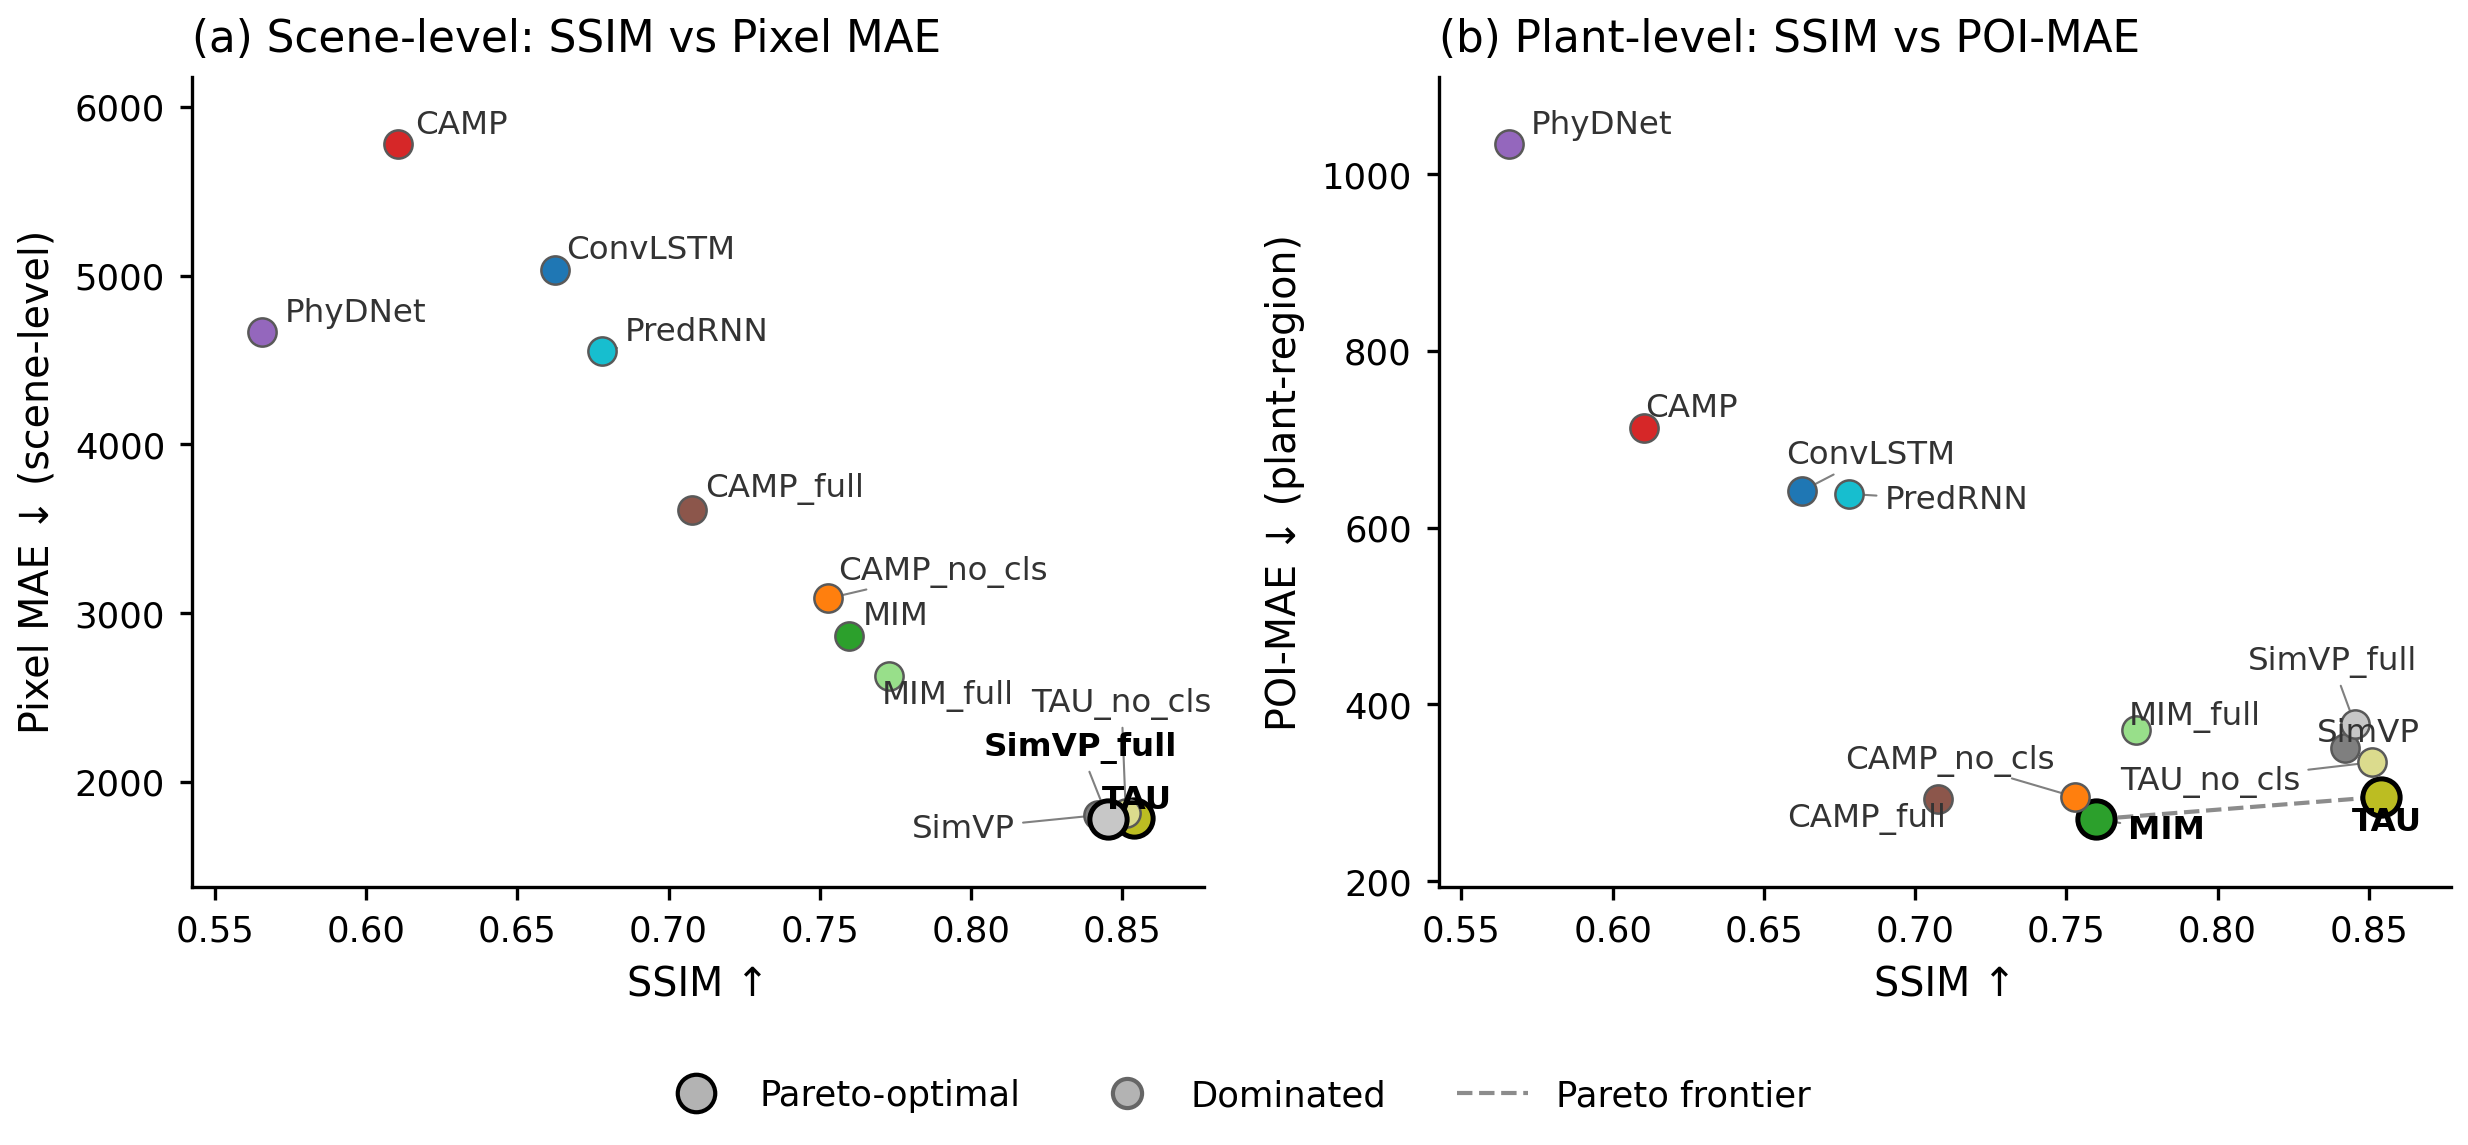
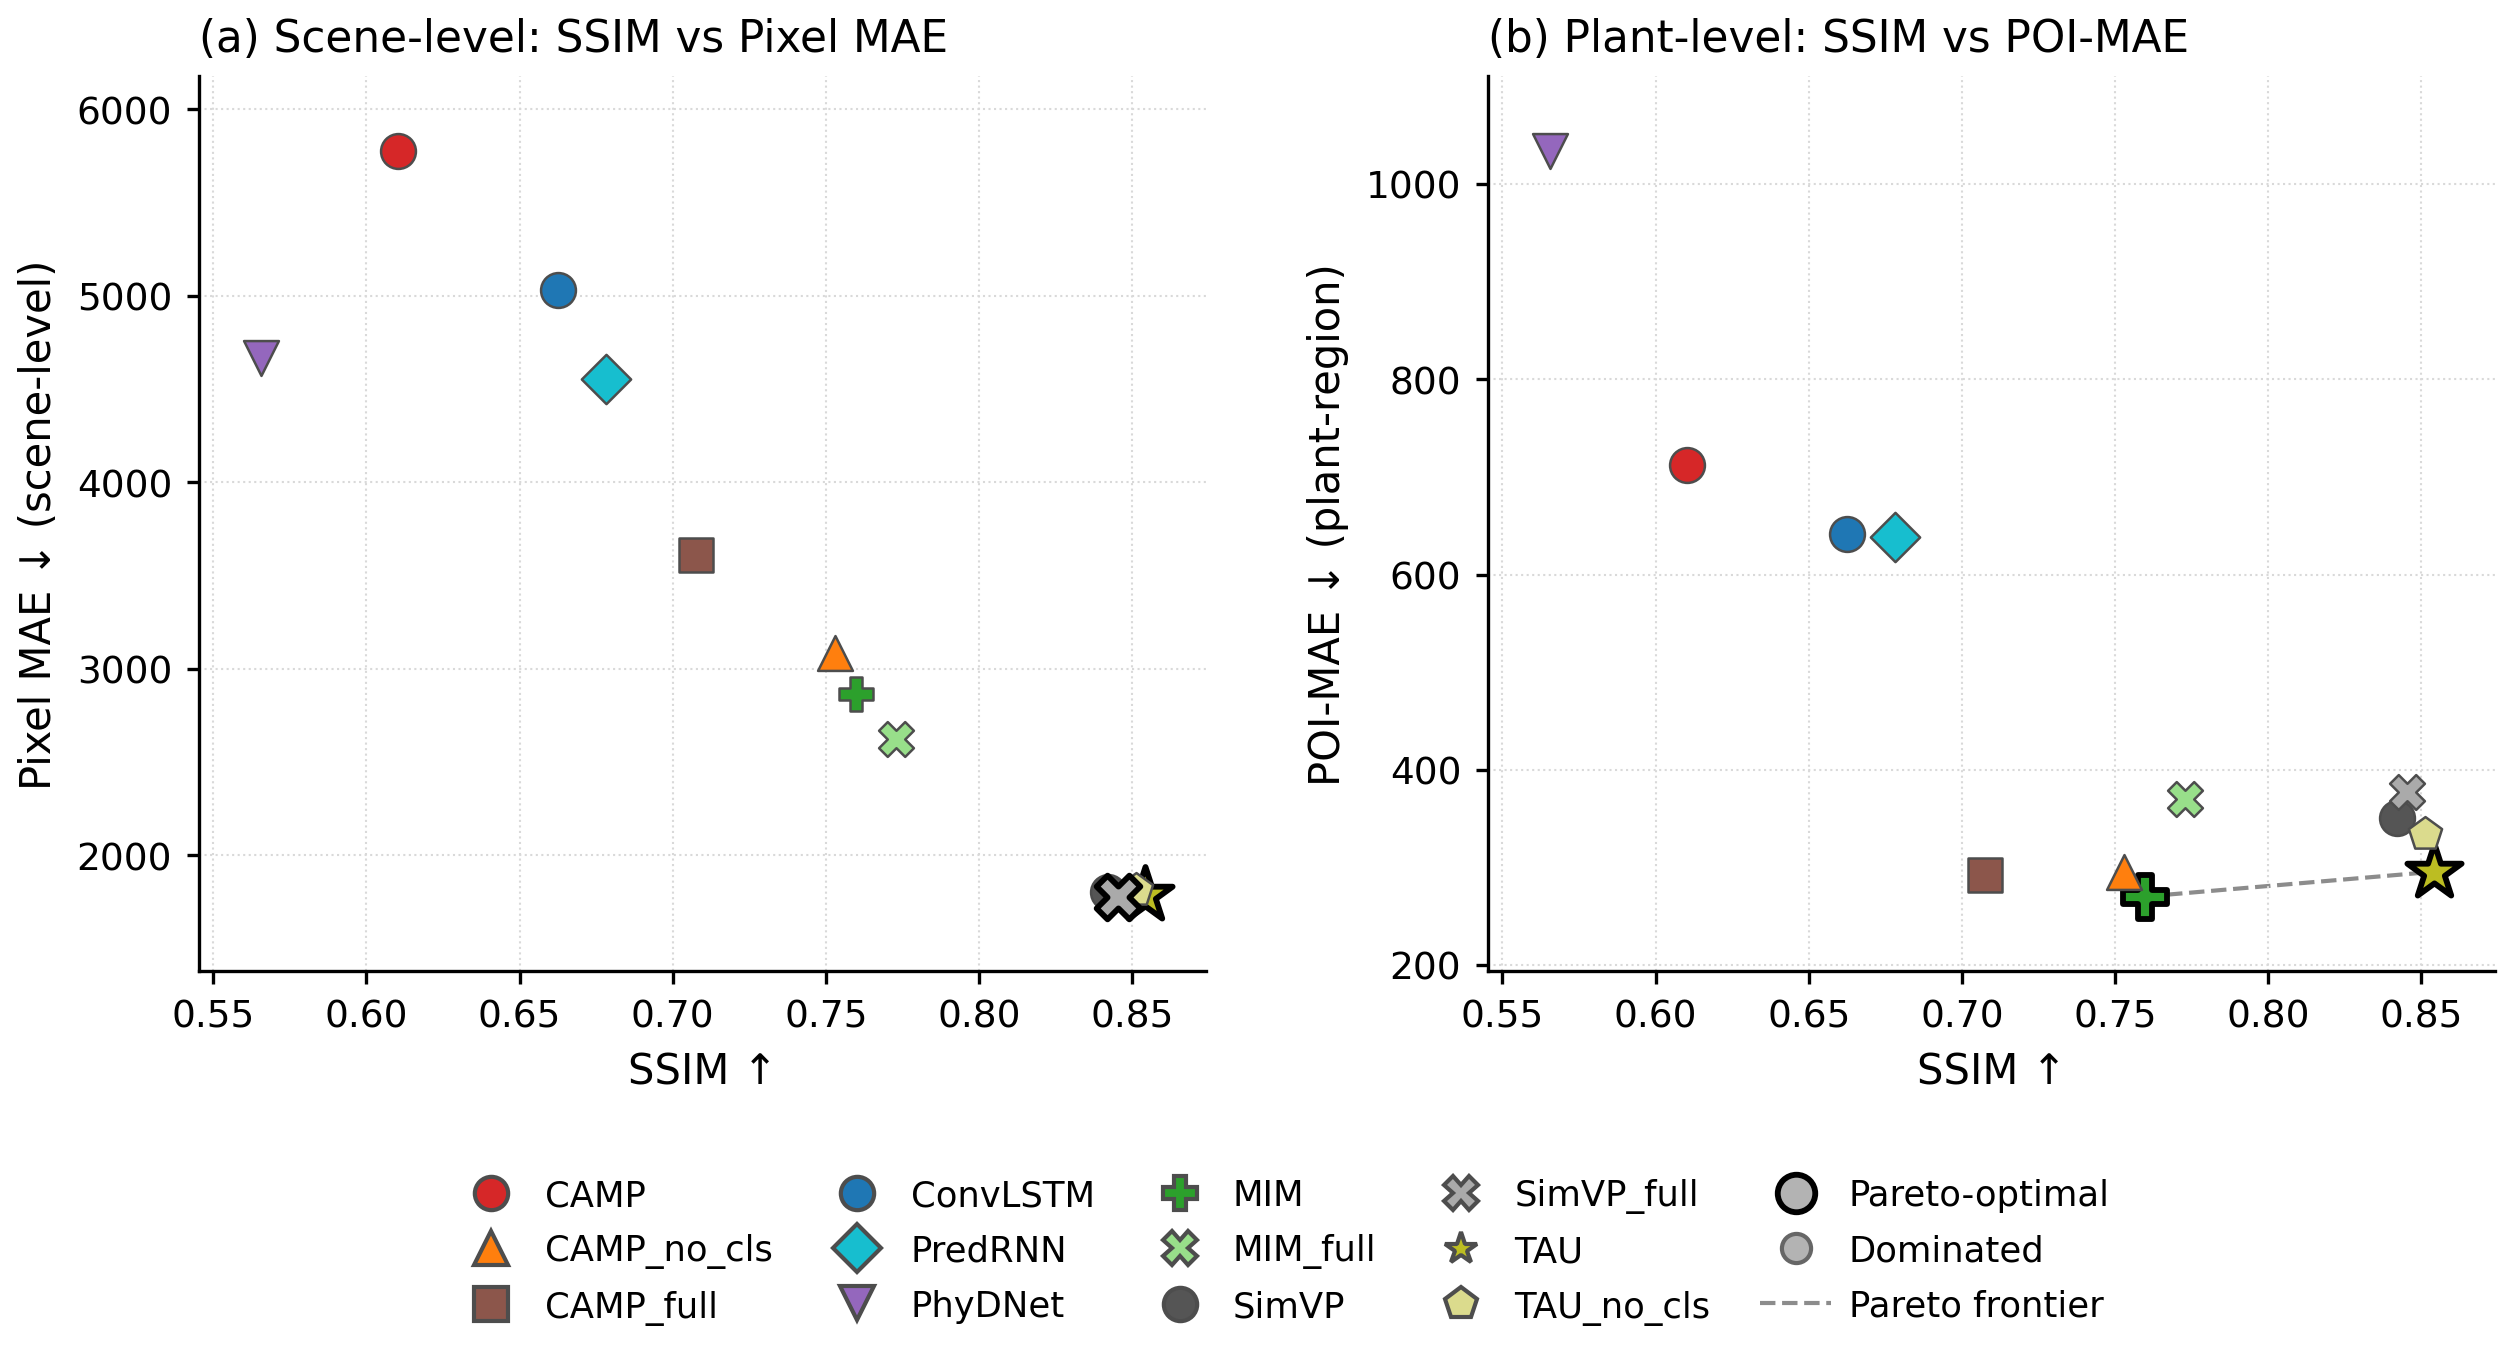
updated figures

diff --git a/tools/make_figure2_pareto.py b/tools/make_figure2_pareto.py
@@ -1,8 +1,10 @@
-"""Replacement for Figure 2: two-panel Pareto scatter (SSIM vs MAE, SSIM vs POI-MAE)
-on the Komatsuna test set. Drop-in replacement that matches the caption and
-surrounding text in CAMP_CEA_paper_AZ_v31_revised.docx.
+"""Replacement for Figure 2: two-panel Pareto scatter (SSIM vs Pixel MAE,
+SSIM vs POI-MAE) on the Komatsuna test set.
 
-Outputs vector PDF + 300 dpi PNG to figures/figure2_replacement/.
+Design choices for legibility under heavy point overlap:
+- No inline text labels; every method gets a unique (color, marker shape) pair.
+- Pareto-optimal methods drawn larger with a bold black edge ring.
+- Single legend on the right grouped by family (CAMP / recurrent / non-recurrent).
 """
 from __future__ import annotations
 
@@ -11,7 +13,6 @@ from pathlib import Path
 import matplotlib.pyplot as plt
 import numpy as np
 import pandas as pd
-from adjustText import adjust_text
 from matplotlib.lines import Line2D
 
 ROOT = Path(__file__).resolve().parents[1]
@@ -19,39 +20,39 @@ CSV = ROOT / "work_dirs" / "komatsuna_ep150_results.csv"
 OUT_DIR = ROOT / "figures" / "figure2_replacement"
 OUT_DIR.mkdir(parents=True, exist_ok=True)
 
-DISPLAY = {
-    "convlstm":    "ConvLSTM",
-    "predrnn":     "PredRNN",
-    "phydnet":     "PhyDNet",
-    "simvp":       "SimVP",
-    "mim":         "MIM",
-    "tau":         "TAU",
-    "camp":        "CAMP",
-    "camp_no_cls": "CAMP_no_cls",
-    "camp_full":   "CAMP_full",
-    "mim_full":    "MIM_full",
-    "tau_no_cls":  "TAU_no_cls",
-    "simvp_full":  "SimVP_full",
+# Ordered groups → legend ordering. (display_name, color, marker)
+GROUPS = {
+    "CAMP family": [
+        ("CAMP",        "camp",        "#d62728", "o"),
+        ("CAMP_no_cls", "camp_no_cls", "#ff7f0e", "^"),
+        ("CAMP_full",   "camp_full",   "#8c564b", "s"),
+    ],
+    "Recurrent baselines": [
+        ("ConvLSTM",    "convlstm",    "#1f77b4", "o"),
+        ("PredRNN",     "predrnn",     "#17becf", "D"),
+        ("PhyDNet",     "phydnet",     "#9467bd", "v"),
+        ("MIM",         "mim",         "#2ca02c", "P"),
+        ("MIM_full",    "mim_full",    "#98df8a", "X"),
+    ],
+    "Non-recurrent baselines": [
+        ("SimVP",       "simvp",       "#555555", "o"),
+        ("SimVP_full",  "simvp_full",  "#aaaaaa", "X"),
+        ("TAU",         "tau",         "#bcbd22", "*"),
+        ("TAU_no_cls",  "tau_no_cls",  "#dbdb8d", "p"),
+    ],
 }
 
-# Color by family: CAMP = red family, recurrent baselines = blues, non-recurrent = greens.
-FAMILY_COLOR = {
-    "CAMP":        "#d62728",
-    "CAMP_no_cls": "#ff7f0e",
-    "CAMP_full":   "#8c564b",
-    "ConvLSTM":    "#1f77b4",
-    "PredRNN":     "#17becf",
-    "PhyDNet":     "#9467bd",
-    "MIM":         "#2ca02c",
-    "MIM_full":    "#98df8a",
-    "SimVP":       "#7f7f7f",
-    "SimVP_full":  "#c7c7c7",
-    "TAU":         "#bcbd22",
-    "TAU_no_cls":  "#dbdb8d",
-}
+# Flatten to lookup tables for plotting.
+STYLE = {}      # method_key → (color, marker)
+DISPLAY = {}    # method_key → display name
+for entries in GROUPS.values():
+    for disp, key, color, marker in entries:
+        STYLE[key] = (color, marker)
+        DISPLAY[key] = disp
 
 
 def pareto_front(ssim, err):
+    """Higher SSIM, lower err is better. Returns mask of non-dominated points."""
     n = len(ssim)
     dominated = np.zeros(n, dtype=bool)
     for i in range(n):
@@ -67,53 +68,80 @@ def pareto_front(ssim, err):
 def panel(ax, df, ycol, ylabel, title):
     x = df["ssim"].to_numpy()
     y = df[ycol].to_numpy()
-    names = df["display"].tolist()
+    keys = df["method"].tolist()
 
     front = pareto_front(x, y)
     order = np.argsort(x[front])
     ax.plot(x[front][order], y[front][order],
             color="0.55", lw=1.0, ls="--", zorder=1)
 
-    for i, name in enumerate(names):
-        on_front = front[i]
+    # Plot star markers (TAU) slightly larger so they read at the same visual weight.
+    for i, key in enumerate(keys):
+        color, marker = STYLE[key]
+        size = 110 if front[i] else 70
+        if marker == "*":
+            size = int(size * 1.7)
         ax.scatter(x[i], y[i],
-                   s=80 if on_front else 46,
-                   facecolor=FAMILY_COLOR[name],
-                   edgecolor="black" if on_front else "0.35",
-                   linewidth=1.2 if on_front else 0.6,
+                   s=size,
+                   c=color,
+                   marker=marker,
+                   edgecolor="black" if front[i] else "0.3",
+                   linewidth=1.4 if front[i] else 0.6,
                    zorder=3)
 
-    texts = []
-    for i, name in enumerate(names):
-        texts.append(ax.text(x[i], y[i], name,
-                             fontsize=7.8,
-                             fontweight="bold" if front[i] else "normal",
-                             color="black" if front[i] else "0.2"))
-    adjust_text(
-        texts,
-        ax=ax,
-        arrowprops=dict(arrowstyle="-", color="0.5", lw=0.5),
-        expand=(1.2, 1.5),
-        only_move={"text": "xy", "static": "xy", "explode": "xy", "pull": "xy"},
-    )
-
-    ax.set_xlabel("SSIM ↑", fontsize=9.5)
-    ax.set_ylabel(ylabel, fontsize=9.5)
+    ax.set_xlabel("SSIM ↑", fontsize=10)
+    ax.set_ylabel(ylabel, fontsize=10)
     ax.set_title(title, fontsize=10.5, loc="left", pad=6)
-    ax.tick_params(labelsize=8.5, length=3)
+    ax.tick_params(labelsize=9, length=3)
     for spine in ("top", "right"):
         ax.spines[spine].set_visible(False)
+    ax.grid(True, ls=":", lw=0.5, color="0.85", zorder=0)
 
-    pad_x = (x.max() - x.min()) * 0.08
+    pad_x = (x.max() - x.min()) * 0.07
     pad_y = (y.max() - y.min()) * 0.10
     ax.set_xlim(x.min() - pad_x, x.max() + pad_x)
     ax.set_ylim(y.min() - pad_y, y.max() + pad_y)
 
 
+def make_legend(fig, df):
+    """Bottom legend, flat (no group headers), arranged as 3 rows × 5 columns
+    so each plot gets the full horizontal space."""
+    method_keys = set(df["method"].tolist())
+    handles = []
+    labels = []
+
+    # Methods in family order so colors cluster nicely in the legend grid.
+    for entries in GROUPS.values():
+        for disp, key, color, marker in entries:
+            if key not in method_keys:
+                continue
+            handles.append(Line2D([0], [0],
+                                  marker=marker, color="w",
+                                  markerfacecolor=color,
+                                  markeredgecolor="0.3",
+                                  markersize=8, lw=0))
+            labels.append(disp)
+
+    # Status block at the end of the same legend.
+    handles.append(Line2D([0], [0], marker="o", color="w",
+                          markerfacecolor="0.7", markeredgecolor="black",
+                          markersize=9, markeredgewidth=1.4, lw=0))
+    labels.append("Pareto-optimal")
+    handles.append(Line2D([0], [0], marker="o", color="w",
+                          markerfacecolor="0.7", markeredgecolor="0.4",
+                          markersize=7, lw=0))
+    labels.append("Dominated")
+    handles.append(Line2D([0], [0], color="0.55", ls="--", lw=1.0))
+    labels.append("Pareto frontier")
+
+    fig.legend(handles, labels,
+               loc="lower center", bbox_to_anchor=(0.5, 0.0),
+               ncol=5, frameon=False, fontsize=8.5,
+               handletextpad=0.5, columnspacing=1.4, labelspacing=0.6)
+
+
 def main():
     df = pd.read_csv(CSV)
-    # camp_base ≡ predrnn numerically (same MAE/MSE/SSIM/PSNR/POI); tau_full ≡ tau_no_cls.
-    # Drop the duplicates so markers don't stack.
     df = df[~df["method"].isin(["camp_base", "tau_full"])].reset_index(drop=True)
     df["display"] = df["method"].map(DISPLAY)
 
@@ -126,26 +154,18 @@ def main():
         "savefig.pad_inches": 0.06,
     })
 
-    fig, axes = plt.subplots(1, 2, figsize=(8.4, 3.8))
-    panel(axes[0], df, "mae",
+    fig, (ax_a, ax_b) = plt.subplots(1, 2, figsize=(8.6, 4.6))
+
+    panel(ax_a, df, "mae",
           ylabel="Pixel MAE ↓ (scene-level)",
           title="(a) Scene-level: SSIM vs Pixel MAE")
-    panel(axes[1], df, "poi_mae",
+    panel(ax_b, df, "poi_mae",
           ylabel="POI-MAE ↓ (plant-region)",
           title="(b) Plant-level: SSIM vs POI-MAE")
 
-    legend_handles = [
-        Line2D([0], [0], marker="o", color="w", markerfacecolor="0.7",
-               markeredgecolor="black", markersize=9, label="Pareto-optimal"),
-        Line2D([0], [0], marker="o", color="w", markerfacecolor="0.7",
-               markeredgecolor="0.4", markersize=7, label="Dominated"),
-        Line2D([0], [0], color="0.55", ls="--", lw=1.0, label="Pareto frontier"),
-    ]
-    fig.legend(handles=legend_handles, loc="lower center",
-               ncol=3, frameon=False, fontsize=8.5,
-               bbox_to_anchor=(0.5, -0.03))
+    make_legend(fig, df)
+    fig.subplots_adjust(left=0.08, right=0.97, top=0.93, bottom=0.28, wspace=0.28)
 
-    fig.tight_layout(rect=(0, 0.05, 1, 1))
     pdf_path = OUT_DIR / "figure2_pareto.pdf"
     png_path = OUT_DIR / "figure2_pareto.png"
     fig.savefig(pdf_path)

diff --git a/tools/failure_case_viewer.py b/tools/failure_case_viewer.py
@@ -61,7 +61,10 @@ def plot_sample(sample_idx, preds_a, preds_b, trues,
                 name_a, name_b, metric, delta, out_path, tau=0.1):
     """Render a grid: rows = {GT, A, B}, cols = T frames (RGB + ExGI)."""
     T = preds_a.shape[0]
-    fig, axes = plt.subplots(3, 2 * T, figsize=(2.2 * T, 6.6))
+    # Figure height was 6.6"; the 3 row-by-1" plot grid couldn't fill it, so
+    # matplotlib bled the slack into top/bottom margins. Drop it to ~3.8" so
+    # the plot rows actually fill the figure and the title can sit close.
+    fig, axes = plt.subplots(3, 2 * T, figsize=(2.2 * T, 3.8))
     matplotlib.rcParams.update({"font.family": "serif",
                                 "font.serif": ["Times New Roman", "DejaVu Serif"]})
 
@@ -74,9 +77,9 @@ def plot_sample(sample_idx, preds_a, preds_b, trues,
             ax.set_xticks([])
             ax.set_yticks([])
             if t == 0:
-                ax.set_ylabel(label, fontsize=10)
+                ax.set_ylabel(label, fontsize=11)
             if row_idx == 0:
-                ax.set_title(f"t = {t + 1}", fontsize=9)
+                ax.set_title(f"t = {t + 1}", fontsize=10, pad=2)
 
             # ExGI
             ax = axes[row_idx, 2 * t + 1]
@@ -89,10 +92,14 @@ def plot_sample(sample_idx, preds_a, preds_b, trues,
     show_row(1, preds_a, METHOD_DISPLAY.get(name_a, name_a))
     show_row(2, preds_b, METHOD_DISPLAY.get(name_b, name_b))
 
+    # Pack rows tightly; reserve room above for column labels AND the title.
+    # Layout from top: title at y=0.985 → t=1..t=5 column labels → plot rows.
+    fig.subplots_adjust(left=0.04, right=0.995,
+                        top=0.83, bottom=0.02,
+                        wspace=0.05, hspace=0.05)
     fig.suptitle(f"Sample {sample_idx}  |  Δ{metric} "
                  f"({name_a} − {name_b}) = {delta:.3f}",
-                 fontsize=11)
-    fig.tight_layout(rect=[0, 0, 1, 0.96])
+                 fontsize=20, fontweight="bold", y=0.985)
     fig.savefig(out_path, dpi=150)
     plt.close(fig)
 
